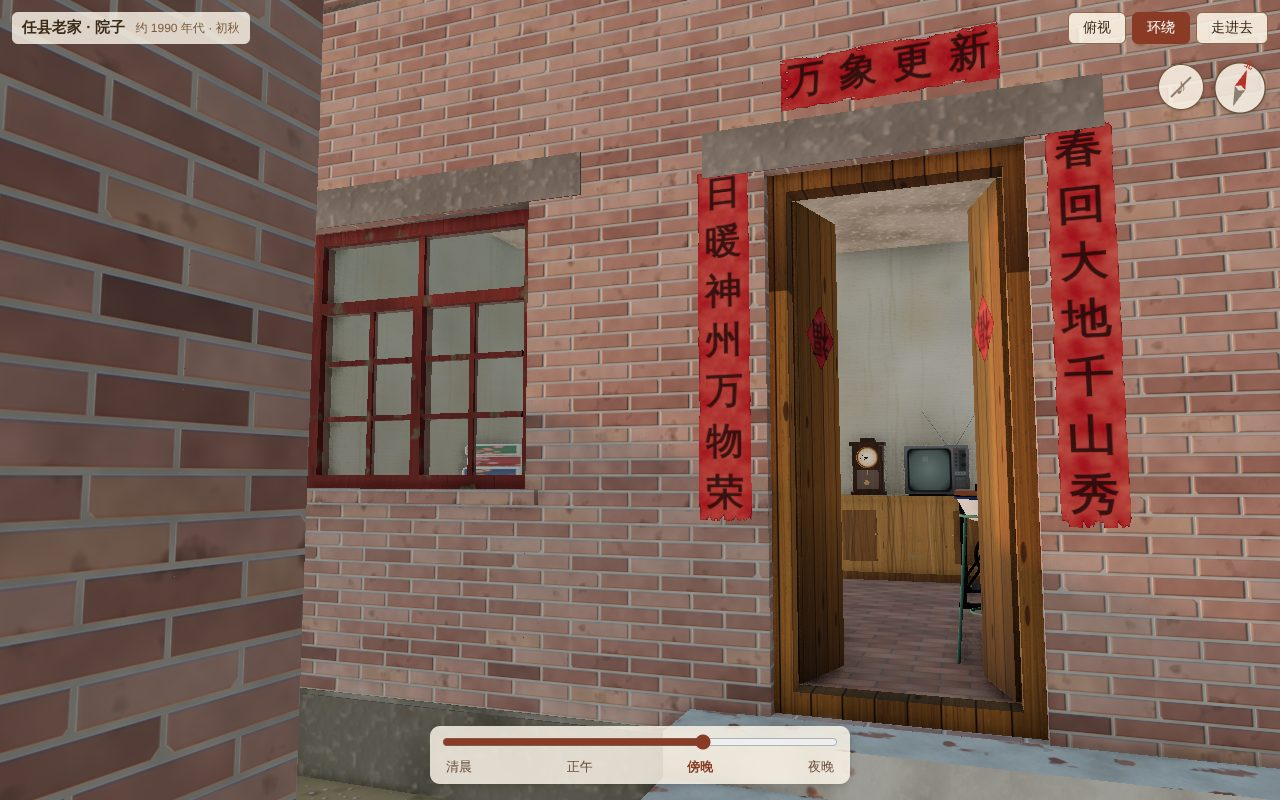
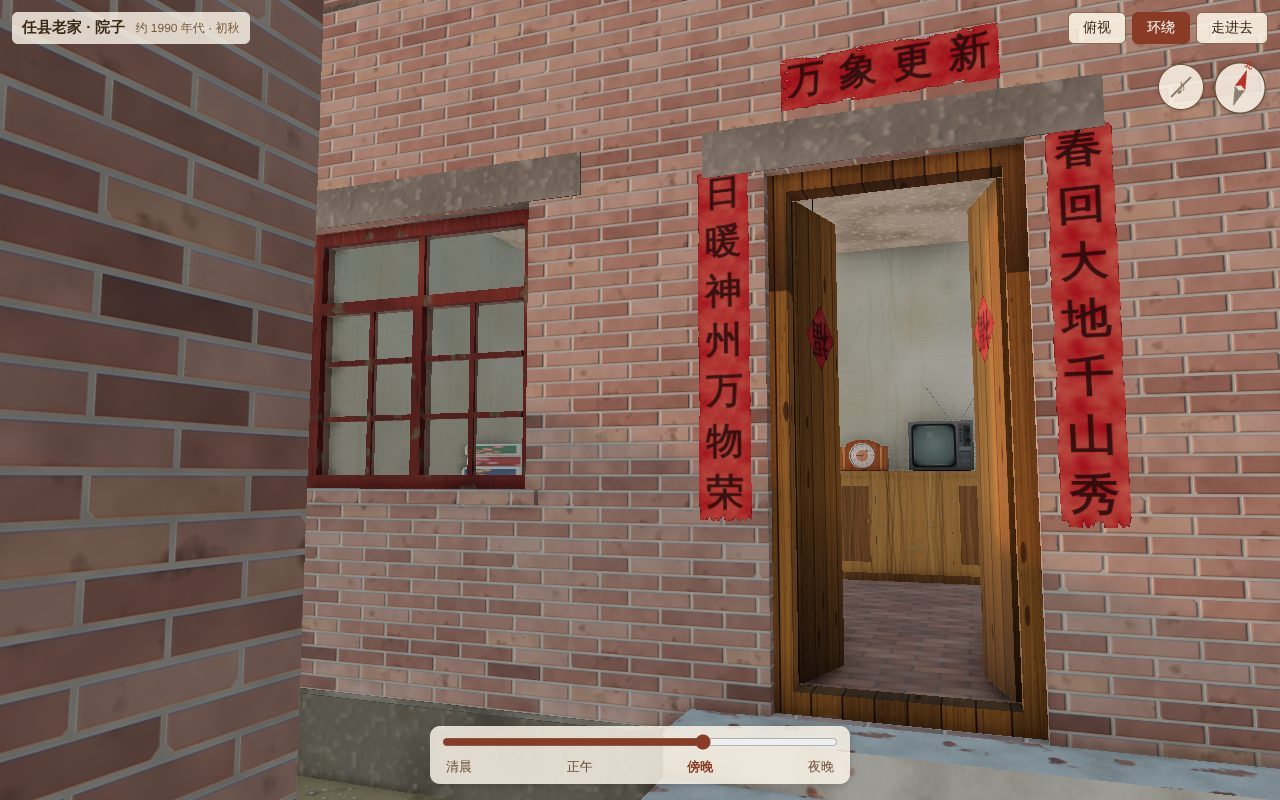
北屋改成不平分：西北屋东西 9 m、东北屋 6 m；外屋 6 m、里屋 3 m；电视桌加高、往外屋中间偏东挪
- 两屋之间的墙从 X = 0 挪到 X = 1.5（西北屋 9 m、东北屋 6 m，用户更正）
- 西北屋内的隔墙在 X = -1.5：外屋东西 6 m（净宽 5.64 m）、里屋 3 m（净宽 2.76 m，里面的陈设不变）
- 里屋南窗移到里屋正中（X = 0），灯泡也在里屋正中；天地神位跟着两屋中间的墙挪到 X = 1.5
- 电视桌高 0.9 m（比炕高 0.3 m），在外屋中间偏东、正对屋门；洗脸盆架放进门右手边的墙角（外屋东南角）
- WEST_ROOM.size.w 改成从北屋布局算出来（8.64 m）；截图机位、交互测试 I 的起点跟着改；新增机位 west-outer-wide
- 全部交互测试（A~J）通过
- 更新 spec（v25）、CLAUDE.md、平面图、截图

Claude-Session: https://claude.ai/code/session_01HJLasCaBTePKwEqSFahTsZ

Changed region(s): [[0.6562, 0.5, 0.7812, 0.8125]]

diff --git a/src/layout.js b/src/layout.js
@@ -23,7 +23,7 @@ export const WALL = {
   earth: 0.4, // 夯土墙
 };
 
-/** 北屋：一排两间平顶房，坐北朝南；每间东西 7.5 m × 南北 5 m */
+/** 北屋：一排两间平顶房，坐北朝南；西北屋东西 9 m、东北屋东西 6 m（第 11 轮用户更正：不是平分），南北都是 5 m */
 export const NORTH_HOUSE = {
   rect: { x0: -7.5, x1: 7.5, z0: -9, z1: -4 }, // 外轮廓，进深 5 m
   height: 3.5, // 地面到屋顶面
@@ -31,30 +31,30 @@ export const NORTH_HOUSE = {
   plinth: 0.35, // 外墙根一圈抹水泥的勒脚高度（约三四十厘米）
   wall: WALL.brick,
   floor: 0.45, // 室内地坪 = 3 级台阶 × 0.15
-  partitionX: 0, // 两间之间的隔墙中心线
+  partitionX: 1.5, // 两间之间的隔墙中心线（西北屋 9 m、东北屋 6 m）
   // 两间屋的台阶连成一长溜：砖砌成台阶，外面抹石灰；x0..x1 为东西范围（西到厨房东墙那条线，东到菜地前）
   steps: { count: 3, rise: 0.15, run: 0.3, x0: -4.5, x1: 4.8 },
   // 台阶正中、两间屋中间的墙根下：天地神位（小神龛 + 香炉），立在最上一级台阶上
-  shrine: { x: 0, width: 0.62, depth: 0.32, height: 1.15 },
+  shrine: { x: 1.5, width: 0.62, depth: 0.32, height: 1.15 }, // 跟着两间屋中间的墙走
   rooms: [
     {
       id: 'west',
       name: '西北屋',
       x0: -7.5,
-      x1: 0,
+      x1: 1.5,
       // 门、窗都开在南墙（z = -4）上；x 为洞口中心，sill 从室内地坪算起
       door: { x: -3.75, width: 0.9, height: 2.0, style: 'plank' }, // 老式木板门：竖木板 + 横穿带 + 木门闩（第 11 轮按用户照片）
       // 门西侧一扇窗（外屋）；门东侧里屋南墙上也有一扇（第 10 轮用户更正：当初记错了）
       // inner: true 的窗属于里屋，夜里不自动亮（里屋的灯要拉线开关自己开）
       windows: [
         { x: -5.8, width: 1.2, height: 1.2, sill: 0.8 },
-        { x: -1.55, width: 1.0, height: 1.1, sill: 0.95, inner: true },
+        { x: 0, width: 1.0, height: 1.1, sill: 0.95, inner: true }, // 里屋南墙正中
       ],
     },
     {
       id: 'east',
       name: '东北屋',
-      x0: 0,
+      x0: 1.5,
       x1: 7.5,
       door: { x: 3.75, width: 0.9, height: 2.0 },
       // 只在门东侧有窗，门西侧没有窗
@@ -64,22 +64,22 @@ export const NORTH_HOUSE = {
 };
 
 /**
- * 西北屋室内（第 10 轮）：一道隔墙把西北屋分成两间——西边“外屋”（六成，堂屋）、东边“里屋”（四成）。
+ * 西北屋室内（第 10、11 轮）：一道隔墙把西北屋分成两间——西边“外屋”（东西 6 m，堂屋）、东边“里屋”（东西 3 m）。
  * 坐标是室内坐标：原点 = 西北屋室内西北角（墙内侧）、地坪面；+x 东、+z 南、+y 上（见 src/interiors/README.md）。
- * 室内净空 7.14 m × 4.52 m × 2.9 m。进屋门在外屋南墙；隔墙上一个小门洞通里屋，门洞挂半截白布门帘。
+ * 室内净空 8.64 m × 4.52 m × 2.9 m。进屋门在外屋南墙；隔墙上一个小门洞通里屋，门洞挂半截白布门帘。
  * 墙：刷大白，年深日久发黄发脏；墙根往上 0.55 m 抹水泥（外屋、里屋都是）。地面铺磨旧的淡红砖。
  * 里屋：北边一铺炕（东西两头都顶着墙），隔墙上拉线开关和几张女明星海报；南墙下西南角一口水缸，往东一排做蜡烛的器具，南墙被熏黑。
  */
 export const WEST_ROOM = {
   origin: { x: NORTH_HOUSE.rect.x0 + NORTH_HOUSE.wall, z: NORTH_HOUSE.rect.z0 + NORTH_HOUSE.wall }, // 室内原点的世界坐标
-  size: { w: 7.14, d: 4.52, h: NORTH_HOUSE.height - 0.15 - NORTH_HOUSE.floor },
-  partition: { x: 4.26, thickness: 0.24 }, // 隔墙中线：外屋净宽 4.14 m、里屋净宽 2.76 m（六四开）
+  size: { w: NORTH_HOUSE.rooms[0].x1 - NORTH_HOUSE.wall / 2 - (NORTH_HOUSE.rect.x0 + NORTH_HOUSE.wall), d: 4.52, h: NORTH_HOUSE.height - 0.15 - NORTH_HOUSE.floor }, // 净宽 8.64 m
+  partition: { x: 5.76, thickness: 0.24 }, // 隔墙中线（世界 x = -1.5）：外屋东西 6 m（净宽 5.64 m）、里屋 3 m（净宽 2.76 m）
   innerDoor: { z: 2.55, width: 0.8, height: 1.9 }, // 隔墙上的小门洞（z 为中心）
   curtain: { drop: 0.78 }, // 白布门帘长度（门洞高的四成左右）
   dado: 0.55, // 墙根抹水泥的高度
   kang: { depth: 1.85, height: 0.62 }, // 炕：西顶隔墙、东顶东墙、北顶后墙；从北墙往南 1.85 m，高 0.62 m
   pullSwitch: { z: 1.45, y: 2.05, cordEnd: 1.2 }, // 拉线开关：装在隔墙东面（炕头这边），灯绳垂到离地 1.2 m
-  bulb: { x: 5.76, z: 2.4, drop: 0.55 }, // 里屋顶上的灯泡（15 W 左右的白炽灯），吊下来 0.55 m
+  bulb: { x: 7.26, z: 2.4, drop: 0.55 }, // 里屋正中 // 里屋顶上的灯泡（15 W 左右的白炽灯），吊下来 0.55 m
   // 隔墙东面（开关这面墙）贴的海报：z 为中心、y 为中心高度
   posters: [
     { z: 0.42, y: 1.5, w: 0.5, h: 0.72 },
@@ -91,9 +91,9 @@ export const WEST_ROOM = {
   // —— 外屋（第 11 轮，用户描述）：x 0 .. partition.x - 0.12 ——
   outer: {
     kang: { width: 1.62, height: 0.6 }, // 西边一铺大木头炕，南北通长（顶住南北墙），从西墙往东 1.62 m（第 11 轮用户：比 1.8 m 再窄一点）
-    tvDesk: { x: 3.1, w: 1.6, d: 0.48, h: 0.8 }, // 靠北墙的电视桌（x 为中心）；用户：比第一版宽、高，往西挪，和炕之间留出走道
-    table: { x: 2.4, z: 3.85, r: 0.4, h: 0.74 }, // 靠南墙的折叠圆桌
-    washstand: { x: 3.86, z: 3.72 }, // 进门右手边（隔墙这边）的洗脸盆架
+    tvDesk: { x: 3.3, w: 1.6, d: 0.5, h: 0.9 }, // 靠北墙的电视桌（x 为中心）：外屋中间偏东、正对着屋门；比炕高 0.3 m
+    table: { x: 2.5, z: 3.85, r: 0.4, h: 0.74 }, // 靠南墙的折叠圆桌（南窗和屋门之间）
+    washstand: { x: 5.36, z: 4.2 }, // 进门右手边的旮旯里（外屋东南角，挨着隔墙）
     sewing: { z: 1.4, len: 0.92, depth: 0.46 }, // 隔墙边、里屋门洞往北一点的缝纫机（z 为中心，长边顺着隔墙）
   },
 };

diff --git a/docs/scene-spec.md b/docs/scene-spec.md
@@ -27,7 +27,7 @@
 
 | 物体 | 位置（米） | 说明 |
 |---|---|---|
-| 北屋 | X -7.5…7.5，Z -9…-4 | 两间，每间东西 7.5 m × 南北 5 m，隔墙在 X = 0 |
+| 北屋 | X -7.5…7.5，Z -9…-4 | 两间：西北屋东西 9 m（X -7.5…1.5）、东北屋东西 6 m（X 1.5…7.5），南北 5 m，两屋之间的墙在 X = 1.5（v25 用户更正：原先平分 7.5 m 不对） |
 | 空当 | X -7.5…-4.5，Z -4…-2 | 厨房与西北屋之间约 2 m 宽的露天空当 |
 | 厨房 | X -7.5…-4.5，Z -2…3 | 西侧北段，东西 3 m × 南北 5 m |
 | 西土墙 | Z 3…5.4 | 厨房南边约 2 m |
@@ -52,13 +52,13 @@
 - **门前台阶两间屋连通**：先用砖垒成台阶，外面抹石灰（已确认，家人补充）；3 级，每级高 0.15 m、深 0.3 m，室内地坪比院子高 0.45 m
   - 范围 **【待确认】**：西到厨房东墙那条线（x = -4.5），东到菜地前（x = 4.8），共约 9.3 m 长
   - 石灰用旧了发黄发灰，边角零星掉皮露出里面的砖
-- **天地神位**：在连通台阶的正中、两间屋中间的墙根下（已确认，家人补充）
+- **天地神位**：在连通台阶上、两间屋中间的墙根下（已确认，家人补充；v25 两屋之间的墙挪到 X = 1.5，神位跟着挪过去【待确认】）
   - 样式 **【待确认】**：砖砌抹石灰的小神龛，约 0.6 m 宽、1.15 m 高，立在最上一级台阶上；顶上小青瓦檐，龛里贴红纸“天地神位”，龛前一个小香炉插三炷香
 - 木门、木框玻璃窗，八九十年代农村风格；门上有褪色的旧春联
   - 细节（第 3 步补充，可改）：门为两扇向内开的木门，刷枣红漆、已褪色起皮，门扇上倒贴“福”；门洞和窗洞上方露出水泥过梁，窗下一皮立砌砖窗台；窗为木框，下部两扇小格窗、上部亮子
   - 春联内容（可改）：西北屋“春回大地千山秀 / 日暖神州万物荣”，横批“万象更新”；东北屋“天增岁月人增寿 / 春满乾坤福满门”，横批“四季平安”
 - 门窗位置（已确认）：每间一门一窗
-  - 西北屋：门在 X = -3.75；门西侧一扇窗（X = -5.8，外屋）；**门东侧里屋的南墙上也有一扇窗**（X = -1.55，宽 1.0 m、窗台高 0.95 m，第 10 轮用户更正：当初记错了）
+  - 西北屋：门在 X = -3.75；门西侧一扇窗（X = -5.8，外屋）；**门东侧里屋的南墙上也有一扇窗**（里屋正中 X = 0，宽 1.0 m、窗台高 0.95 m，第 10 轮用户更正：当初记错了）
   - 东北屋：门在 X = 3.75；**窗只在门东侧**（X = 5.8），门西侧没有窗
 - 两间之间是一道实心隔墙，**没有门相通**（已确认）
 - 室内：真实的室内空间（墙厚 0.24 m、门洞可走进去、透明玻璃窗），**室内先留空**，只有地面和四壁；室内细节以后放在 `src/interiors/`
@@ -124,9 +124,9 @@
 ## 5.7 西北屋室内（第 10 轮，用户描述）
 
 - 西北屋进门后，一道隔墙把屋子分成两间（已确认）：
-  - **外屋**（左手边、西边，占六成，相当于客厅）：进屋门、西边的南窗在外屋；陈设见下面“外屋”
-  - **里屋**（右手边、东边，占四成，已确认“四六开”）：隔墙上一个小门洞进去
-  - 隔墙位置：外屋净宽约 4.1 m、里屋净宽约 2.8 m；门洞宽 0.8 m、高 1.9 m，在隔墙偏南（已确认）
+  - **外屋**（左手边、西边，东西 6 m，相当于客厅）：进屋门、西边的南窗在外屋；陈设见下面“外屋”
+  - **里屋**（右手边、东边，东西 3 m）：隔墙上一个小门洞进去
+  - 隔墙在 X = -1.5：外屋净宽 5.64 m、里屋净宽 2.76 m（v25：西北屋改成 9 m 后，用户定外屋 6 m、里屋 3 m）；门洞宽 0.8 m、高 1.9 m，在隔墙偏南（已确认）
 - **门帘**：门洞上挂一块薄的白布门帘，长度约占门洞的四成（0.78 m），布上织着一朵朵红色小花（已确认）；挂在外屋这边的一根细竹竿上，人走过去会被撩开
 - **墙面**（已确认，外屋、里屋都一样）：
   - 当年刷的大白，年深日久已经不白了，是发黄发灰、带点脏的白，有水渍、蹭脏的印子
@@ -153,15 +153,15 @@
 ### 外屋（第 11 轮，用户描述 + 照片）
 
 - **屋门**：老式木板门（按用户照片）：两扇本色竖木板拼的门，刷过桐油、发黄发暗，板缝发黑、下半截更黑；屋里那面钉着上下两道横穿带，左扇一根木门闩和竖把手，右扇一个门闩插座；外面仍贴倒福、两边春联。门向屋里开着
-- **靠北墙：老式电视桌**（参考用户照片）：宽 1.6 m、高 0.8 m（用户：比第一版宽、高），中心在门往西一点，和炕之间留出 0.65 m 的走道；黄色清漆的木柜，两边各一扇柜门，中间上面一格敞口（放着一摞旧报纸）、下面一个抽屉
+- **靠北墙：老式电视桌**（参考用户照片）：宽 1.6 m、**高 0.9 m（比炕高 0.3 m，用户要求）**，在外屋中间偏东、正对着屋门，和炕之间留出约 0.85 m；黄色清漆的木柜，两边各一扇柜门，中间上面一格敞口（放着一摞旧报纸）、下面一个抽屉
   - **桌上一台老式黑白电视**（按用户照片）：14 寸左右，灰色金属壳，圆角灰绿屏幕，右边控制面板（红指示灯、四个小按钮、两个大旋钮、刻度窗、喇叭格栅），后面一个大屁股，顶上两根拉杆天线
     - **互动**（用户要求）：走到电视跟前出“开电视”按钮（或按 E、或直接点屏幕）：咔哒一声，屏幕中间一道亮线拉开，先一阵沙沙的雪花，再出一幅黑白测试图（带点雪花、滚过的暗带、微微闪），屏幕前照出一点蓝白的光；再按一下关掉
   - **电视左边一座老式座钟**（按用户照片）：横放的橙黄色木壳，中间一块拱顶，两边两根立柱镶着浅色人字纹木条，底下小脚；正中大圆钟面、镀铬的圈、凸玻璃，外圈银白、黑色阿拉伯数字，中间一圈露出木头、两个上弦孔；黑色尖头指针，走的是现在的时间
 - **西边一铺大木头炕，南北通长**（顶住南北墙），从西墙往东 1.62 m（用户：1.8 m 太往东，缩 15~20 cm）、高 0.6 m：深色木板炕身，炕面铺炕席，炕沿一根磨亮的木头
   - **朝外的这一面（炕沿这边）放着一排枕头**（4 个）；**炕上放着棉被**：靠西墙摞着五床缎子被面的棉花被
 - **靠南墙一张圆桌**（参考用户照片的折叠圆桌）：桌面深色、斑驳（漆磨掉一块块、碗底白圈、划痕），一圈包边，铁管交叉腿生了锈；在南窗和屋门之间
-- **门的右手边（隔墙这边）一个洗脸盆架**：九十年代的绿漆铁管三脚架，上下两个圈，靠墙两根伸上去搭毛巾；**架子上一只洋瓷脸盆**（按用户照片：白搪瓷、大红口沿，内壁上沿一圈红“囍”字和剪纸花，外壁一圈红叶子花样，盆底一对金鱼；盛着半盆水）
-  - 位置：隔墙边、门往北一点（已确认）
+- **门的右手边的旮旯里（外屋东南角，挨着隔墙）一个洗脸盆架**：九十年代的绿漆铁管三脚架，上下两个圈，靠墙两根伸上去搭毛巾；**架子上一只洋瓷脸盆**（按用户照片：白搪瓷、大红口沿，内壁上沿一圈红“囍”字和剪纸花，外壁一圈红叶子花样，盆底一对金鱼；盛着半盆水）
+  - 位置：v25 西北屋加宽后，门右手边有了真正的墙角，放进外屋东南角（之前确认的是挨着隔墙）
 - **外屋最东侧（隔墙这里）、里屋门洞往北一点：一台脚踏缝纫机**（按用户照片）：木台板、北头一个抽屉，黑色铸铁架子、脚踏板、南头大皮带轮，黑漆描金的机头、手轮、红线轴；人坐在西边朝东踩
 
 ## 6. 东南角
@@ -237,6 +237,7 @@
 
 ## 修改记录
 
+- **v25**：北屋两间不平分：西北屋东西 9 m、东北屋 6 m；西北屋外屋 6 m、里屋 3 m；电视桌加高到 0.9 m（比炕高 0.3 m）、放在外屋中间偏东正对屋门；洗脸盆架放进门右手边的墙角；里屋南窗移到里屋正中；天地神位跟着两屋中间的墙挪到 X = 1.5
 - **v24**：外屋按用户意见改：炕缩到 1.62 m、电视桌加宽加高（1.6 × 0.8 m）往西挪；洋瓷脸盆照照片改（红口沿、囍字）；黑白电视可以开关（雪花 + 黑白测试图）
 - **v23**：西北屋外屋陈设：老式木板门、电视桌 + 黑白电视 + 座钟、南北通长的大木头炕（枕头、棉被）、靠南墙的斑驳圆桌、洗脸盆架 + 搪瓷洋盆、隔墙边的脚踏缝纫机
 - **v22**：里屋改回第一版的炕（木头床也不对）

diff --git a/CLAUDE.md b/CLAUDE.md
@@ -88,7 +88,7 @@ src/
   interiors/            室内细节，见 interiors/README.md；挂在 interior-anchor-* 上，尺寸在 layout.WEST_ROOM 等（室内坐标）
     common.js           室内共用：canvasTex、rng、seamlessBlob、炕席、被面、枕头、一摞被子 quiltStack、木纹 woodTex、海报
     northWestOuter.js   西北屋外屋陈设（尺寸在 WEST_ROOM.outer）：大木头炕（枕头朝外、靠墙摞被）、电视桌 + 黑白电视（拉杆天线；tv.toggle() 开关：亮线 → 雪花 → 黑白测试图，屏幕前一盏小点光源）+ 座钟（按用户照片：横放木壳、拱顶、镶条立柱，指针走现在的时间）、斑驳圆桌、洗脸盆架 + 洋瓷脸盆（红口沿、囍字，按用户照片）+ 毛巾、脚踏缝纫机
-    northWest.js        西北屋：隔墙分外屋（六）/里屋（四），门洞白布门帘（顶点动画，人走近被撩开）；墙面旧大白 + 墙根 0.55 m 水泥墙裙（finish() 给每面墙贴两层，外屋也用）、磨旧淡红砖地面；里屋的炕（东西两头顶墙，炕席、炕沿；中间试过竹床、木头床，用户都否了）、被子、拉线开关 + 15 瓦灯泡（lamp.pull() 开关，高画质点光源带阴影）、隔墙上三张画的女明星海报、西南角水缸（复用 yard/waterVat.js）、两台做蜡烛的器具（按用户照片）+ 煤球炉、熏黑的南墙（窗洞处挖空）和顶棚
+    northWest.js        西北屋（东西 9 m）：隔墙分外屋（6 m）/里屋（3 m），门洞白布门帘（顶点动画，人走近被撩开）；墙面旧大白 + 墙根 0.55 m 水泥墙裙（finish() 给每面墙贴两层，外屋也用）、磨旧淡红砖地面；里屋的炕（东西两头顶墙，炕席、炕沿；中间试过竹床、木头床，用户都否了）、被子、拉线开关 + 15 瓦灯泡（lamp.pull() 开关，高画质点光源带阴影）、隔墙上三张画的女明星海报、西南角水缸（复用 yard/waterVat.js）、两台做蜡烛的器具（按用户照片）+ 煤球炉、熏黑的南墙（窗洞处挖空）和顶棚
   ui/                   样式；timeSlider.js 时间滑块；hud.js 提示/操作说明/兜里计数/准星；compass.js 指北针；musicButton.js 音乐开关（指北针左边，偏好存在 localStorage 'laojia-bgm-v2'）
 scripts/
   gen-plan.mjs          由 layout.js 生成 docs/plan.svg
@@ -144,7 +144,7 @@ docs/
 
 见 `docs/scene-spec.md` 中所有 **【待确认】** 标记。
 
-已确认：院子 15 m × 18 m（含北屋）；北屋每间 7.5 m × 5 m；厨房与西北屋间有约 2 m 空当；厨房门窗朝东、烟囱在西北角；南侧用土墙代替邻居房子；梧桐（v5 改为约 10 m）。
+已确认：院子 15 m × 18 m（含北屋）；北屋西北屋东西 9 m、东北屋 6 m（v25 更正，原先平分 7.5 m），南北 5 m；厨房与西北屋间有约 2 m 空当；厨房门窗朝东、烟囱在西北角；南侧用土墙代替邻居房子；梧桐（v5 改为约 10 m）。
 
 另已确认（v3）：西北屋窗只在门西侧（v20 更正：里屋南墙也有一扇窗，layout 里 inner: true）、东北屋窗只在门东侧；空当西端有土墙；影背墙距大门三四米；茅厕东西约 2 m。
 
